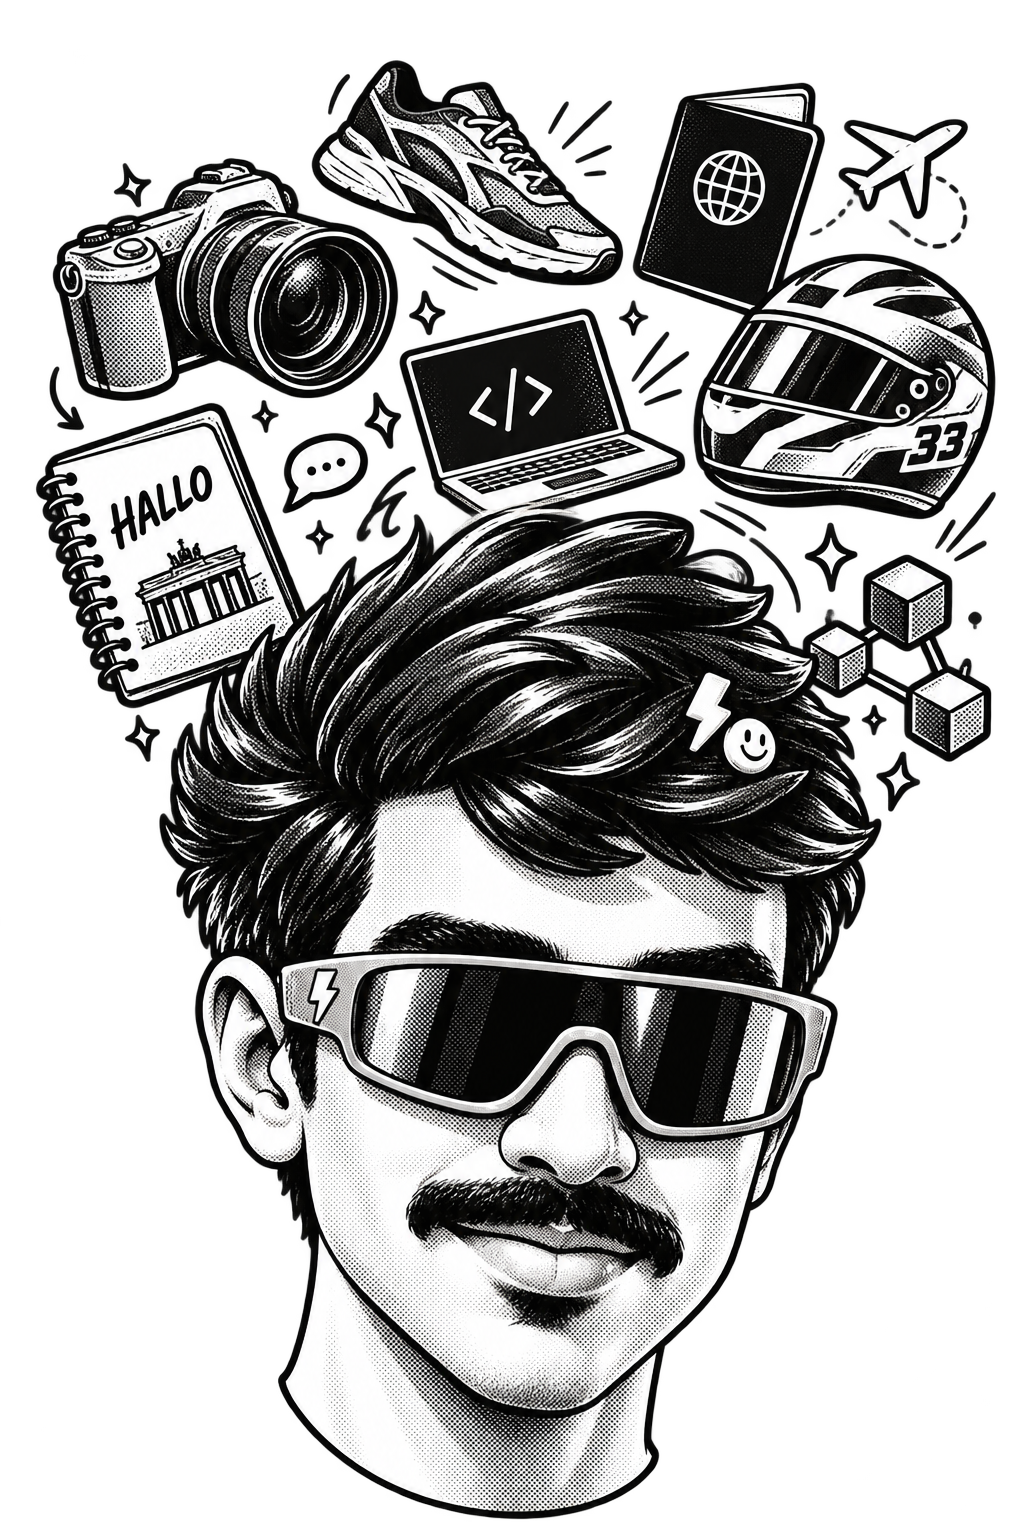
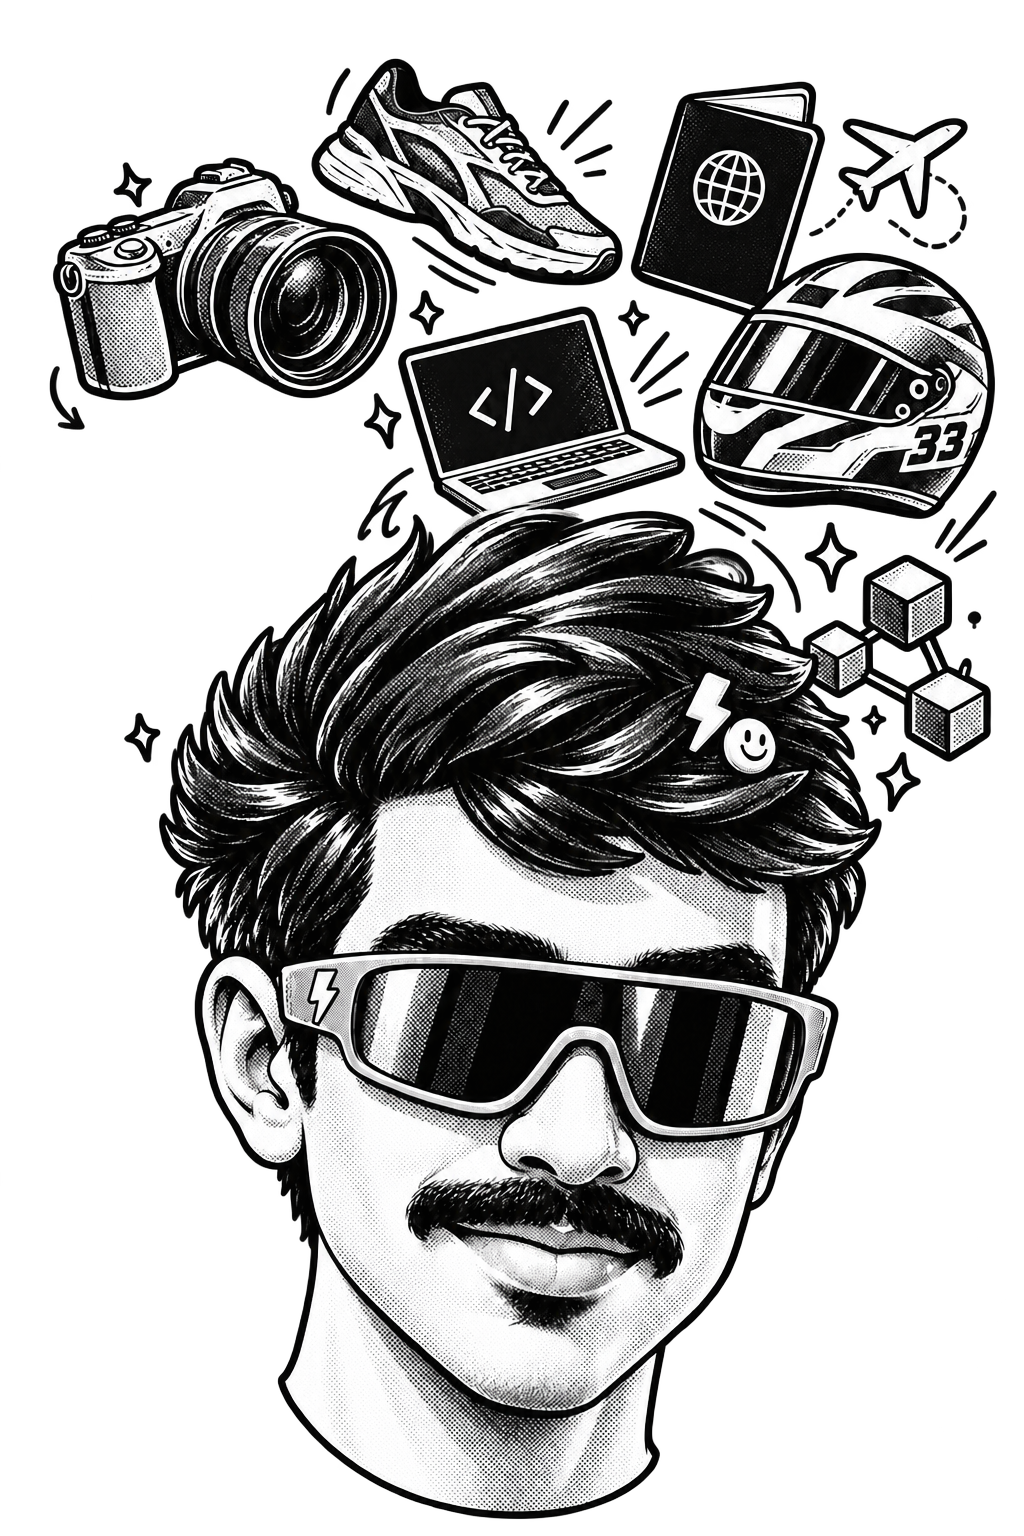
chore: update portfolio description and interests; refine image alt text

diff --git a/app/page.tsx b/app/page.tsx
@@ -20,7 +20,7 @@ export default function Home() {
           <figure className="portrait-collage">
             <Image
               src="/images/aditya-collage.png"
-              alt="An ink cartoon of Aditya with swept hair, sunglasses, and a moustache, surrounded by a camera, running shoe, racing helmet, German notebook, travel and coding objects."
+              alt="An ink cartoon of Aditya with swept hair, sunglasses, and a moustache, surrounded by a camera, running shoe, racing helmet, travel and coding objects."
               width={1024}
               height={1536}
               sizes="(max-width: 760px) 88vw, 42vw"
@@ -29,7 +29,7 @@ export default function Home() {
             <figcaption>A few things on my mind.</figcaption>
           </figure>
           <div className="hero-manifesto">
-            <p>Blockchain builder.<br />Red Bull on race day.<br />German language enthusiast.<br />Runner. Roamer. Photographer.<br />A polymath in the making.</p>
+            <p>Blockchain builder.<br />Red Bull on race day.<br />Runner. Roamer. Photographer.<br />A polymath in the making.</p>
             <a className="small-link" href="#about">Meet the human <Arrow diagonal /></a>
           </div>
           <div className="hero-index">
@@ -80,12 +80,11 @@ export default function Home() {
           <div className="about-copy">
             <p className="about-lead">I like the idea of being a polymath. One discipline has never felt like the whole picture.</p>
             <p>I&apos;m {profile.name}, a blockchain developer and software engineer with an interest in AI, machine learning, and emerging technology.</p>
-            <p>Away from the keyboard, that curiosity takes me into travel, running, photography, and the German language. On a Formula 1 weekend, I&apos;m cheering for Red Bull and Max Verstappen.</p>
+            <p>Away from the keyboard, that curiosity takes me into travel, running, and photography. On a Formula 1 weekend, I&apos;m cheering for Red Bull and Max Verstappen.</p>
             <ul className="personal-index" aria-label="Interests beyond coding">
               <li><span>Off the beaten path</span><span>Travel</span></li>
               <li><span>Through another lens</span><span>Photography</span></li>
               <li><span>One more kilometer</span><span>Running</span></li>
-              <li><span>Immer neugierig</span><span>German</span></li>
               <li><span>Lights out</span><span>F1 / Verstappen</span></li>
             </ul>
             <div className="community-note"><span className="mono">Building with the community</span><p>Building Orakel through the <a href="https://x.com/Adity0ux/status/2073333076571439531" target="_blank" rel="noopener noreferrer">21-Day Stellar Build Station Pune</a>, and sharing the energy of a <a href="https://x.com/Adity0ux/status/2111840837084852355" target="_blank" rel="noopener noreferrer">builder event with ETHPune</a>. I share the work and the journey as they happen.</p></div>

diff --git a/README.md b/README.md
@@ -37,7 +37,7 @@ The portrait collage is a transparent PNG served through `next/image`.
 
 An ink illustration, oversized condensed headings, a gray editorial canvas,
 black framing, and red accents define the visual system. The homepage draws on
-Aditya's interests in travel, running, photography, German, and Formula 1.
+Aditya's interests in travel, running, photography, and Formula 1.
 The custom portrait illustration is in `public/images/aditya-collage.png`.
 The art direction takes inspiration from [Huy Phan's portfolio](https://huyml.co/).
 The implementation, diagrams, and personalized composition were made for this site.
